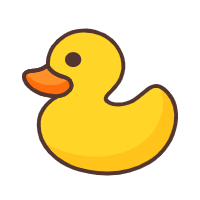
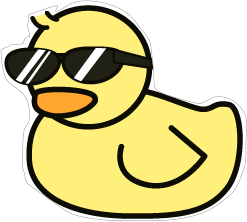
图片替换

diff --git a/coder-answers-book/question.html b/coder-answers-book/question.html
@@ -12,41 +12,8 @@
       .header {
         transform: rotateX(180deg);
       }
-      .magnifier {
-        position: absolute;
-        left: 0;
+      .duck {
         top: calc(70% - 110px);
-        height: 100px;
-        animation: magnifier-move 3s linear infinite alternate-reverse;
-      }
-      @keyframes magnifier-move {
-        0% {
-          left: 0;
-        }
-        12.5% {
-          transform: scale(1.1) translateY(-20px);
-        }
-        25% {
-          transform: scale(1) translateY(0);
-        }
-        37.5% {
-          transform: scale(1.1) translateY(-20px);
-        }
-        50% {
-          transform: scale(1) translateY(0);
-        }
-        62.5% {
-          transform: scale(1.1) translateY(-20px);
-        }
-        75% {
-          transform: scale(1) translateY(0);
-        }
-        87.5% {
-          transform: scale(1.1) translateY(-20px);
-        }
-        100% {
-          left: calc(100% - 70px);
-        }
       }
     </style>
   </head>
@@ -59,7 +26,7 @@
         请闭上眼睛<br />想好自己要问的问题<br />点击开始<br />程序员答案之书将会给你答案！
       </p>
 
-      <img src="./images/magnifier.png" alt="" class="magnifier" />
+      <img src="./images/duck.png" alt="" class="duck" />
 
       <button class="action" onclick="startAsk()">开始解答</button>
 

diff --git a/coder-answers-book/answer.html b/coder-answers-book/answer.html
@@ -59,11 +59,11 @@
 
       <p id="answer" class="answer"></p>
 
-      <img id="decorate" src="./images/blink.png" alt="" class="decorate" />
+      <img id="decorate" src="" alt="" class="decorate" />
 
       <button id="action" class="action" onclick="stop()">停止</button>
 
-      <img src="./images/boy.png" alt="" class="boy" />
+      <img src="./images/good.png" alt="" class="boy" />
 
       <p id="ask" class="ask">解决你的问题了吗？<br />没有就再来一次吧！</p>
 
@@ -98,10 +98,10 @@
         }
 
         function showDecorate() {
-          const decorates = ["god", "blink", "fish", "cat"];
+          const decoratesLength = 4;
           const decorateDom = document.querySelector("#decorate");
-          const decorateIndex = Math.floor(Math.random() * decorates.length);
-          decorateDom.src = `./images/${decorates[decorateIndex]}.png`;
+          const decorate = Math.floor(Math.random() * decoratesLength);
+          decorateDom.src = `./images/decorates/${decorate}.png`;
           decorateDom.onload = () => {
             decorateDom.style.opacity = 1;
           };

diff --git a/coder-answers-book/style.css b/coder-answers-book/style.css
@@ -60,3 +60,42 @@ html, body {
   transform: translateX(-50%);
   font-family: serif;
 }
+.duck {
+  position: absolute;
+  z-index: 1;
+  width: 100px;
+  top: 50%;
+  animation: duck-move 3s linear infinite;
+}
+
+@keyframes duck-move {
+  0% {
+    right: -100px;
+    transform: translateY(0);
+  }
+  12.5% {
+    transform: translateY(-30px);
+  }
+  25% {
+    transform: translateY(0);
+  }
+  37.5% {
+    transform: translateY(-30px);
+  }
+  50% {
+    transform: translateY(0);
+  }
+  62.5% {
+    transform: translateY(-30px);
+  }
+  75% {
+    transform: translateY(0);
+  }
+  87.5% {
+    transform: translateY(-30px);
+  }
+  100% {
+    right: 100%;
+    transform: translateY(0);
+  }
+}
